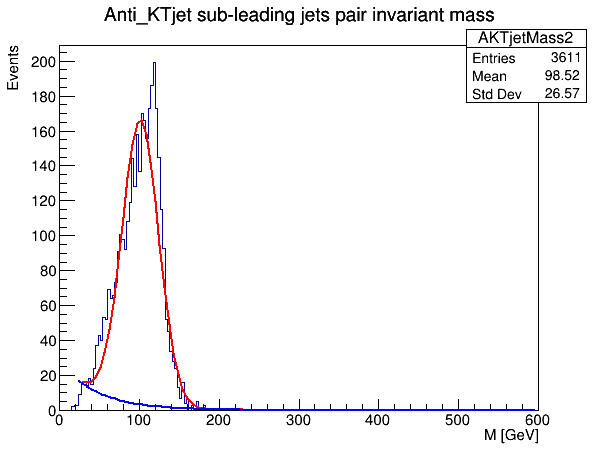
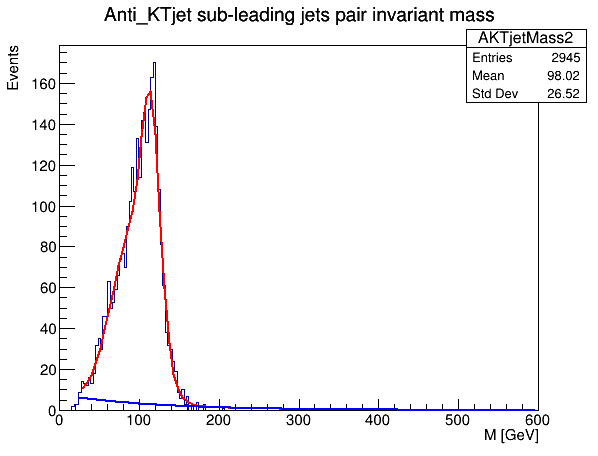
Update dbl gaus+expo fit

diff --git a/Delphes/src/PairingDiHiggs.C b/Delphes/src/PairingDiHiggs.C
@@ -147,7 +147,7 @@ void PairingDiHiggs(const char *inputFile, const char *outputFile){
          Double_t AKTjetpair[nAKTjet*(nAKTjet-1)/2][6];
 
          AKTjetpaircnt = 0;
-	 if (nAKTjet >= 4) {
+	 if (nAKTjet == 4) {
              //Pairing up leading anti-KT jet pair
 	     for(Int_t akt1entry=0; akt1entry < nAKTjet; akt1entry++){
 	         for(Int_t akt2entry=akt1entry+1; akt2entry < nAKTjet; akt2entry++){
@@ -353,24 +353,38 @@ void PairingDiHiggs(const char *inputFile, const char *outputFile){
 	 //GenUncutMass2->Fill(GenJetMass);
      }
 //Fitting and plotting
-     TF1 *jetpair1fit = new TF1("jetpair1fit", "gaus",10,200);
-     TF1 *jetpair2fit = new TF1("jetpair2fit", "gaus+expo(3)",25,600);
-     TF1 *fSignal = new TF1("fSignal","gaus",20,600);
+     TF1 *jetpair1fit = new TF1("jetpair1fit", "gaus+gaus(3)",25,600);
+     TF1 *jetpair2fit = new TF1("jetpair2fit", "gaus+gaus(3)+expo(6)",25,600);
+     TF1 *fSignal = new TF1("fSignal","gaus+gaus(3)",20,600);
      TF1 *fBackground = new TF1("fBackground","expo", 20,600);
-     Double_t param[5];
+     Double_t param[8];
 
-     jetpair2fit->SetParameters(25,125,10,2,-0.0001);
-     jetpair2fit->SetParLimits(1,60,150);
-     jetpair2fit->SetParLimits(2,10,50);
-     jetpair2fit->SetParLimits(3,0,8);
-     jetpair2fit->SetParLimits(4,-1,-0.0001);
+     jetpair2fit->SetParameters(200,133,10,20,100,10,2,-0.0001);
+     jetpair2fit->SetParLimits(0,80,200);
+     jetpair2fit->SetParLimits(1,110,130);
+     jetpair2fit->SetParLimits(2,5,25);
+     jetpair2fit->SetParLimits(6,0,8);
+     jetpair2fit->SetParLimits(7,-1,-0.0001);
+     jetpair2fit->SetParLimits(4,50,109);
+     jetpair2fit->SetParLimits(5,5,30);
+     
+     jetpair1fit->SetParameters(300,120,10,40,125,10,2,-0.0001);
+     jetpair1fit->SetParLimits(0,100,400);
+     jetpair1fit->SetParLimits(1,110,120);
+     jetpair1fit->SetParLimits(2,5,30);
+     /*jetpair1fit->SetParLimits(6,0,8);
+     jetpair1fit->SetParLimits(7,-1.5,-0.0001);*/
+     jetpair1fit->SetParLimits(4,120,140);
+     jetpair1fit->SetParLimits(5,5,40);
+
+
 	     
      TCanvas *mycanvas = new TCanvas("mycanvas","My Canvas",200,10,600,480);
      cout <<endl<< "Run gaussian fit for the leading anti-KT jet pair..."<<endl;
-     AKTjetMass1->Fit("jetpair2fit","R");
-     jetpair2fit->GetParameters(param);
+     AKTjetMass1->Fit("jetpair1fit","R");
+     jetpair1fit->GetParameters(param);
      fSignal->SetParameters(&param[0]);
-     fBackground->SetParameters(&param[3]);
+     fBackground->SetParameters(&param[6]);
      TH1D *AKTjetMass1Signal = new TH1D(*AKTjetMass1);
      AKTjetMass1Signal->Sumw2();
      AKTjetMass1Signal->Add(fBackground,-1);
@@ -382,7 +396,7 @@ void PairingDiHiggs(const char *inputFile, const char *outputFile){
      AKTjetMass2->Fit("jetpair2fit","R");
      jetpair2fit->GetParameters(param);
      fSignal->SetParameters(&param[0]);
-     fBackground->SetParameters(&param[3]);
+     fBackground->SetParameters(&param[6]);
      TH1D *AKTjetMass2Signal = new TH1D(*AKTjetMass2);
      AKTjetMass2Signal->Sumw2();
      AKTjetMass2Signal->Add(fBackground,-1);
